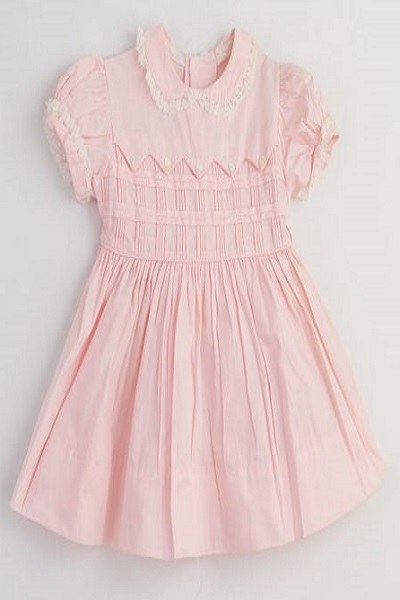
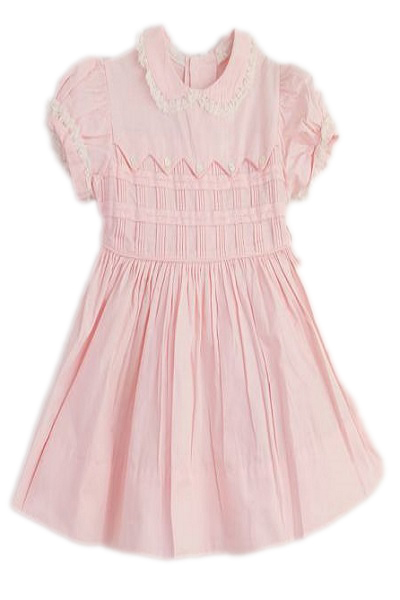
footer changes and img background removed

diff --git a/style/mainStyle.css b/style/mainStyle.css
@@ -1,0 +1,137 @@
+* {
+    font-family: 'Roboto', sans-serif;
+}
+
+html, body {
+    width: 100vw;
+    height: 100vh;
+    margin: 0px;
+    padding: 0px;
+    overflow-x: hidden;
+} 
+
+  
+.loginCartWrap {  
+    display: flex;                          
+    width: 30vw;
+    margin-right: 3vw;
+    align-items: center;
+}
+
+.myPageText, .loginText, .cartField {
+    width: 30%;
+    text-align: center;
+    padding: 15px;
+}
+
+.myPageText > a, .loginText > a, .cartField > a {
+    text-decoration: none;
+    color: black;
+}
+
+
+.myPageText:hover, .loginText:hover, .cartField:hover  {
+    background-color: #706C61;
+}
+
+.cartField {
+    display: inline-flex;
+    justify-content: center;
+}    
+
+.article {
+    background-color: white;
+    margin: 0 auto;
+    width: 95vw;
+    height: auto;
+    text-align: justify;
+    padding: 20px;
+}
+
+footer {
+    margin: 0 auto;
+    width: 100vw;
+    height: auto;
+    background-color: #6d965a;
+    margin-top: 20px;
+}
+
+/* .newsletterField {
+    background-color: #e0d9ca;
+    width: 60vw;
+    height: auto;
+    margin: 0 auto;
+    padding: 20px;
+    text-align: center;
+    border-radius: 10px;
+} */
+
+/* .newsletterInput {
+    color: #C4C4C4;
+    padding: 5px;
+    outline: none;
+} */
+
+/* .sendBtn {
+    background-color: #706C61;
+    border: none;
+    color:white;
+    text-decoration: none;
+    padding: 5px;
+    margin: 10px;
+    outline: none;
+}
+
+.sendBtn:hover {
+    cursor: pointer;
+} */
+
+.footWrap {
+    display: flex;
+    text-align: center;
+    justify-content: center;
+}
+
+.footWrap a {
+    text-decoration: none;
+    color: black;
+}
+
+.mobileScreenMenu {
+    display:none;
+} 
+
+#allProducts {
+    display: flex;
+    justify-content: center;
+    flex-wrap: wrap;
+}
+
+.productDiv {
+    margin: 20px;
+    padding: 10px;
+    background-color: #C4C4C4;
+    border-radius: 20px;
+    text-align: center;
+}
+
+.productImage {
+    width: 90px;
+    height: 70px;
+}
+
+.addToCartBtn {
+    background-color: #333333;
+    color: white;
+    outline-style: none;
+    width: 80px;
+    height: 30px;
+    border-radius: 10px;
+    text-align: center;
+}
+
+.fa-cart-arrow-down {
+    font-size: 13px;
+    color: white;
+    padding-left: 10px;
+}

diff --git a/css/startpage.css b/css/startpage.css
@@ -128,3 +128,6 @@ footer {
     margin-bottom: 2em;
     width: auto;
 }
+/* .getShippers{
+    display: none;
+} */

diff --git a/index.php b/index.php
@@ -4,7 +4,7 @@
     <meta charset="UTF-8">
     <meta http-equiv="X-UA-Compatible" content="IE=edge">
     <meta name="viewport" content="width=device-width, initial-scale=1.0">
-    <title>Retro webshop</title>
+    <title>Route 66 webshop</title>
     <link rel="preconnect" href="https://fonts.gstatic.com">
     <link href="https://fonts.googleapis.com/css2?family=Roboto" rel="stylesheet">
     <link href="https://cdn.jsdelivr.net/npm/bootstrap@5.0.0-beta1/dist/css/bootstrap.min.css" rel="stylesheet" integrity="sha384-giJF6kkoqNQ00vy+HMDP7azOuL0xtbfIcaT9wjKHr8RbDVddVHyTfAAsrekwKmP1" crossorigin="anonymous">    
@@ -56,22 +56,22 @@
   
 <footer>
     <div class="container">
-    <div class="row">
+      <div class="row">
         <div class="col-12">
             <h3>Get our newsletter</h3>
-    <form class="newsletterField" id ="newsletter-form">
-    <label for="firstname"></label>
-      <input type="text" name="firstname" id="firstname" placeholder="Förnamn">
-      <label for="lastname"></label>
-      <input type="text" name="lastname" id="lastname" placeholder="Efternamn">
-      <label for="email"></label>
-      <input type="text" name="email" id="email" placeholder="E-post">
-      <button type="submit" class="btn btn-outline-success" id="newsLetterBtn">Sign up</button>
-    </form>
+              <form class="newsletterField" id ="newsletter-form">
+                <label for="firstname"></label>
+                <input type="text" name="firstname" id="firstname" placeholder="Förnamn">
+                <label for="lastname"></label>
+                <input type="text" name="lastname" id="lastname" placeholder="Efternamn">
+                <label for="email"></label>
+                <input type="text" name="email" id="email" placeholder="E-post">
+                <button type="submit" class="btn btn-outline-success" id="newsLetterBtn">Sign up</button>
+              </form>
         </div>
       </div>
     </div>
-    </footer>
+</footer>
 
 
 

diff --git a/cart.php b/cart.php
@@ -4,9 +4,9 @@
     <meta charset="UTF-8">
     <meta name="viewport" content="width=device-width, initial-scale=1.0">
     <meta http-equiv="X-UA-Compatible" content="ie=edge">
-    <title>Retro</title> 
-<!--     <link rel="stylesheet" href="./style/mainStyle.css">
-    <link rel="stylesheet" href="./style/cartStyle.css"> -->
+    <title>Route 66 webshop</title>
+    <link rel="preconnect" href="https://fonts.gstatic.com">
+    <link href="https://fonts.googleapis.com/css2?family=Roboto" rel="stylesheet">
     <link href="https://cdn.jsdelivr.net/npm/bootstrap@5.0.0-beta1/dist/css/bootstrap.min.css" rel="stylesheet" integrity="sha384-giJF6kkoqNQ00vy+HMDP7azOuL0xtbfIcaT9wjKHr8RbDVddVHyTfAAsrekwKmP1" crossorigin="anonymous">    
     <script src="https://cdn.jsdelivr.net/npm/bootstrap@5.0.0-beta2/dist/js/bootstrap.bundle.min.js" integrity="sha384-b5kHyXgcpbZJO/tY9Ul7kGkf1S0CWuKcCD38l8YkeH8z8QjE0GmW1gYU5S9FOnJ0" crossorigin="anonymous"></script>
     <link rel="stylesheet" href="https://cdn.jsdelivr.net/npm/bootstrap-icons@1.3.0/font/bootstrap-icons.css">
@@ -53,8 +53,25 @@
     
 </div>
 </main>
-<footer>
 
+<footer>
+    <div class="container">
+      <div class="row align-items-end">
+        <div class="col-12">
+            <h3>Get our newsletter</h3>
+          <form class="newsletterField" id ="newsletter-form">
+              <label for="firstname"></label>
+                <input type="text" name="firstname" id="firstname" placeholder="Förnamn">
+                <label for="lastname"></label>
+                <input type="text" name="lastname" id="lastname" placeholder="Efternamn">
+                <label for="email"></label>
+                <input type="text" name="email" id="email" placeholder="E-post">
+                <button type="submit" class="btn btn-outline-success" id="newsLetterBtn">Sign up</button>
+          </form>
+        </div>
+      </div>
+    </div>
 </footer>
+
 </body>
 </html>
